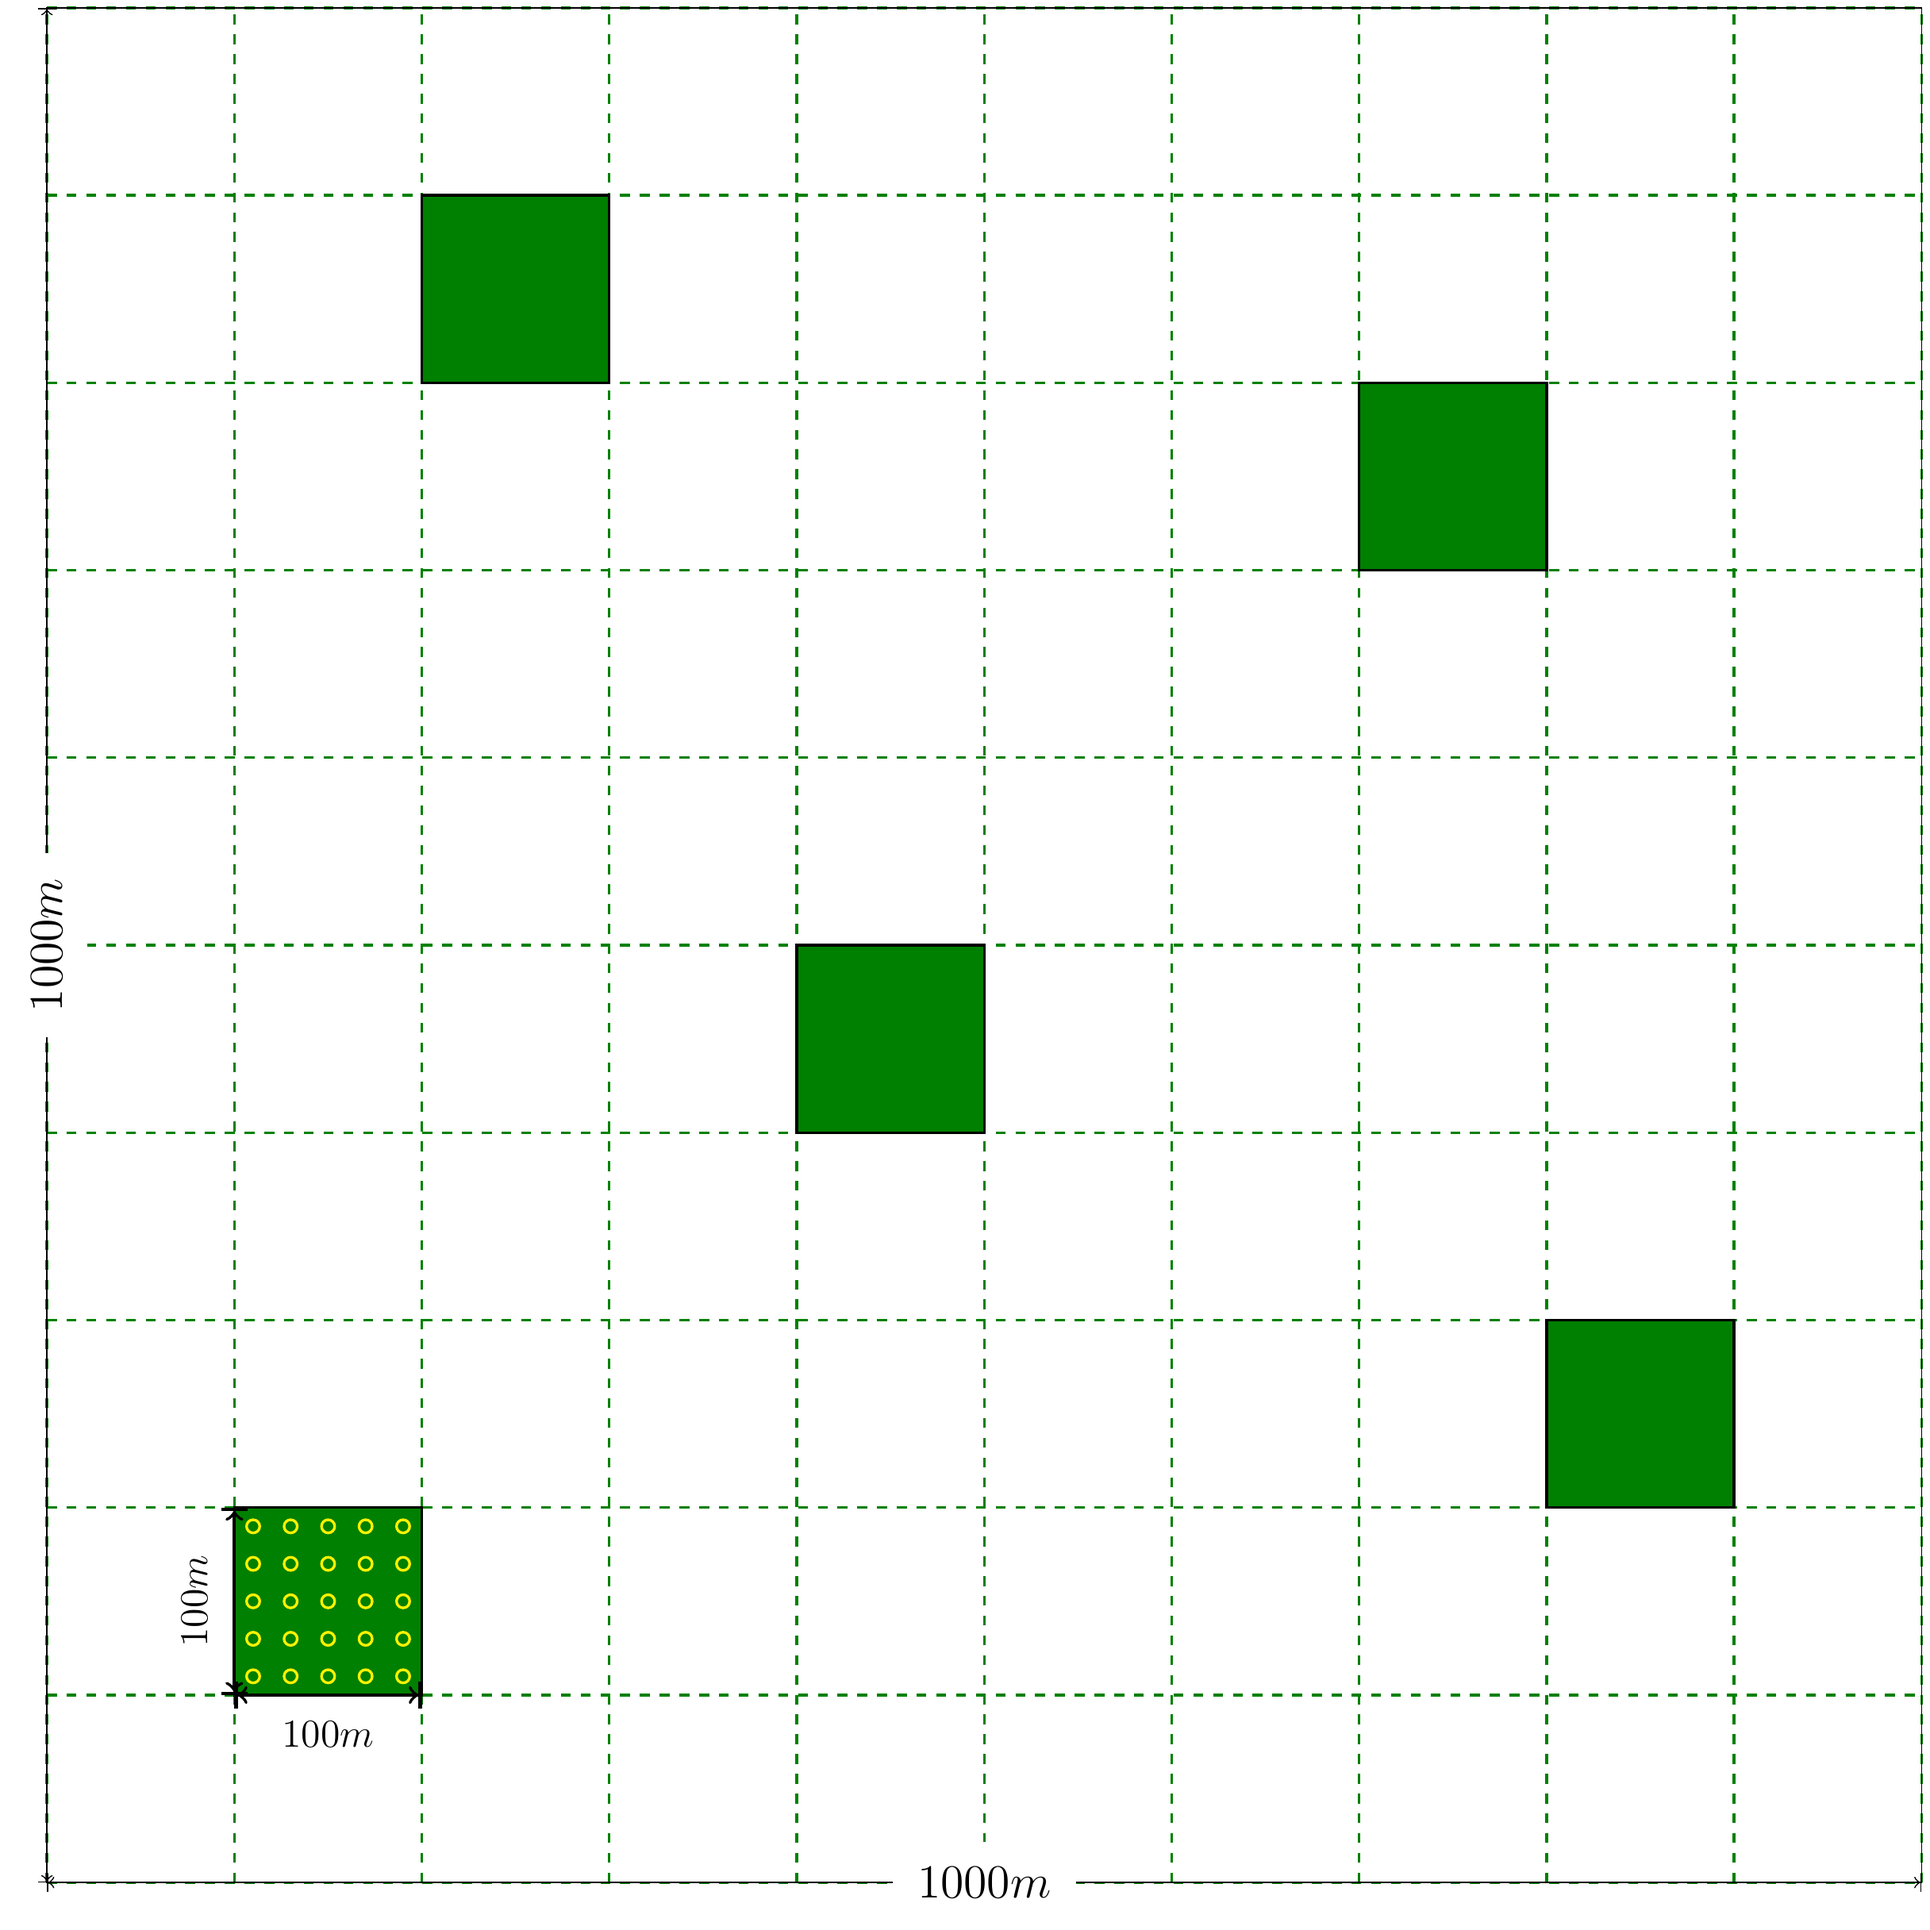
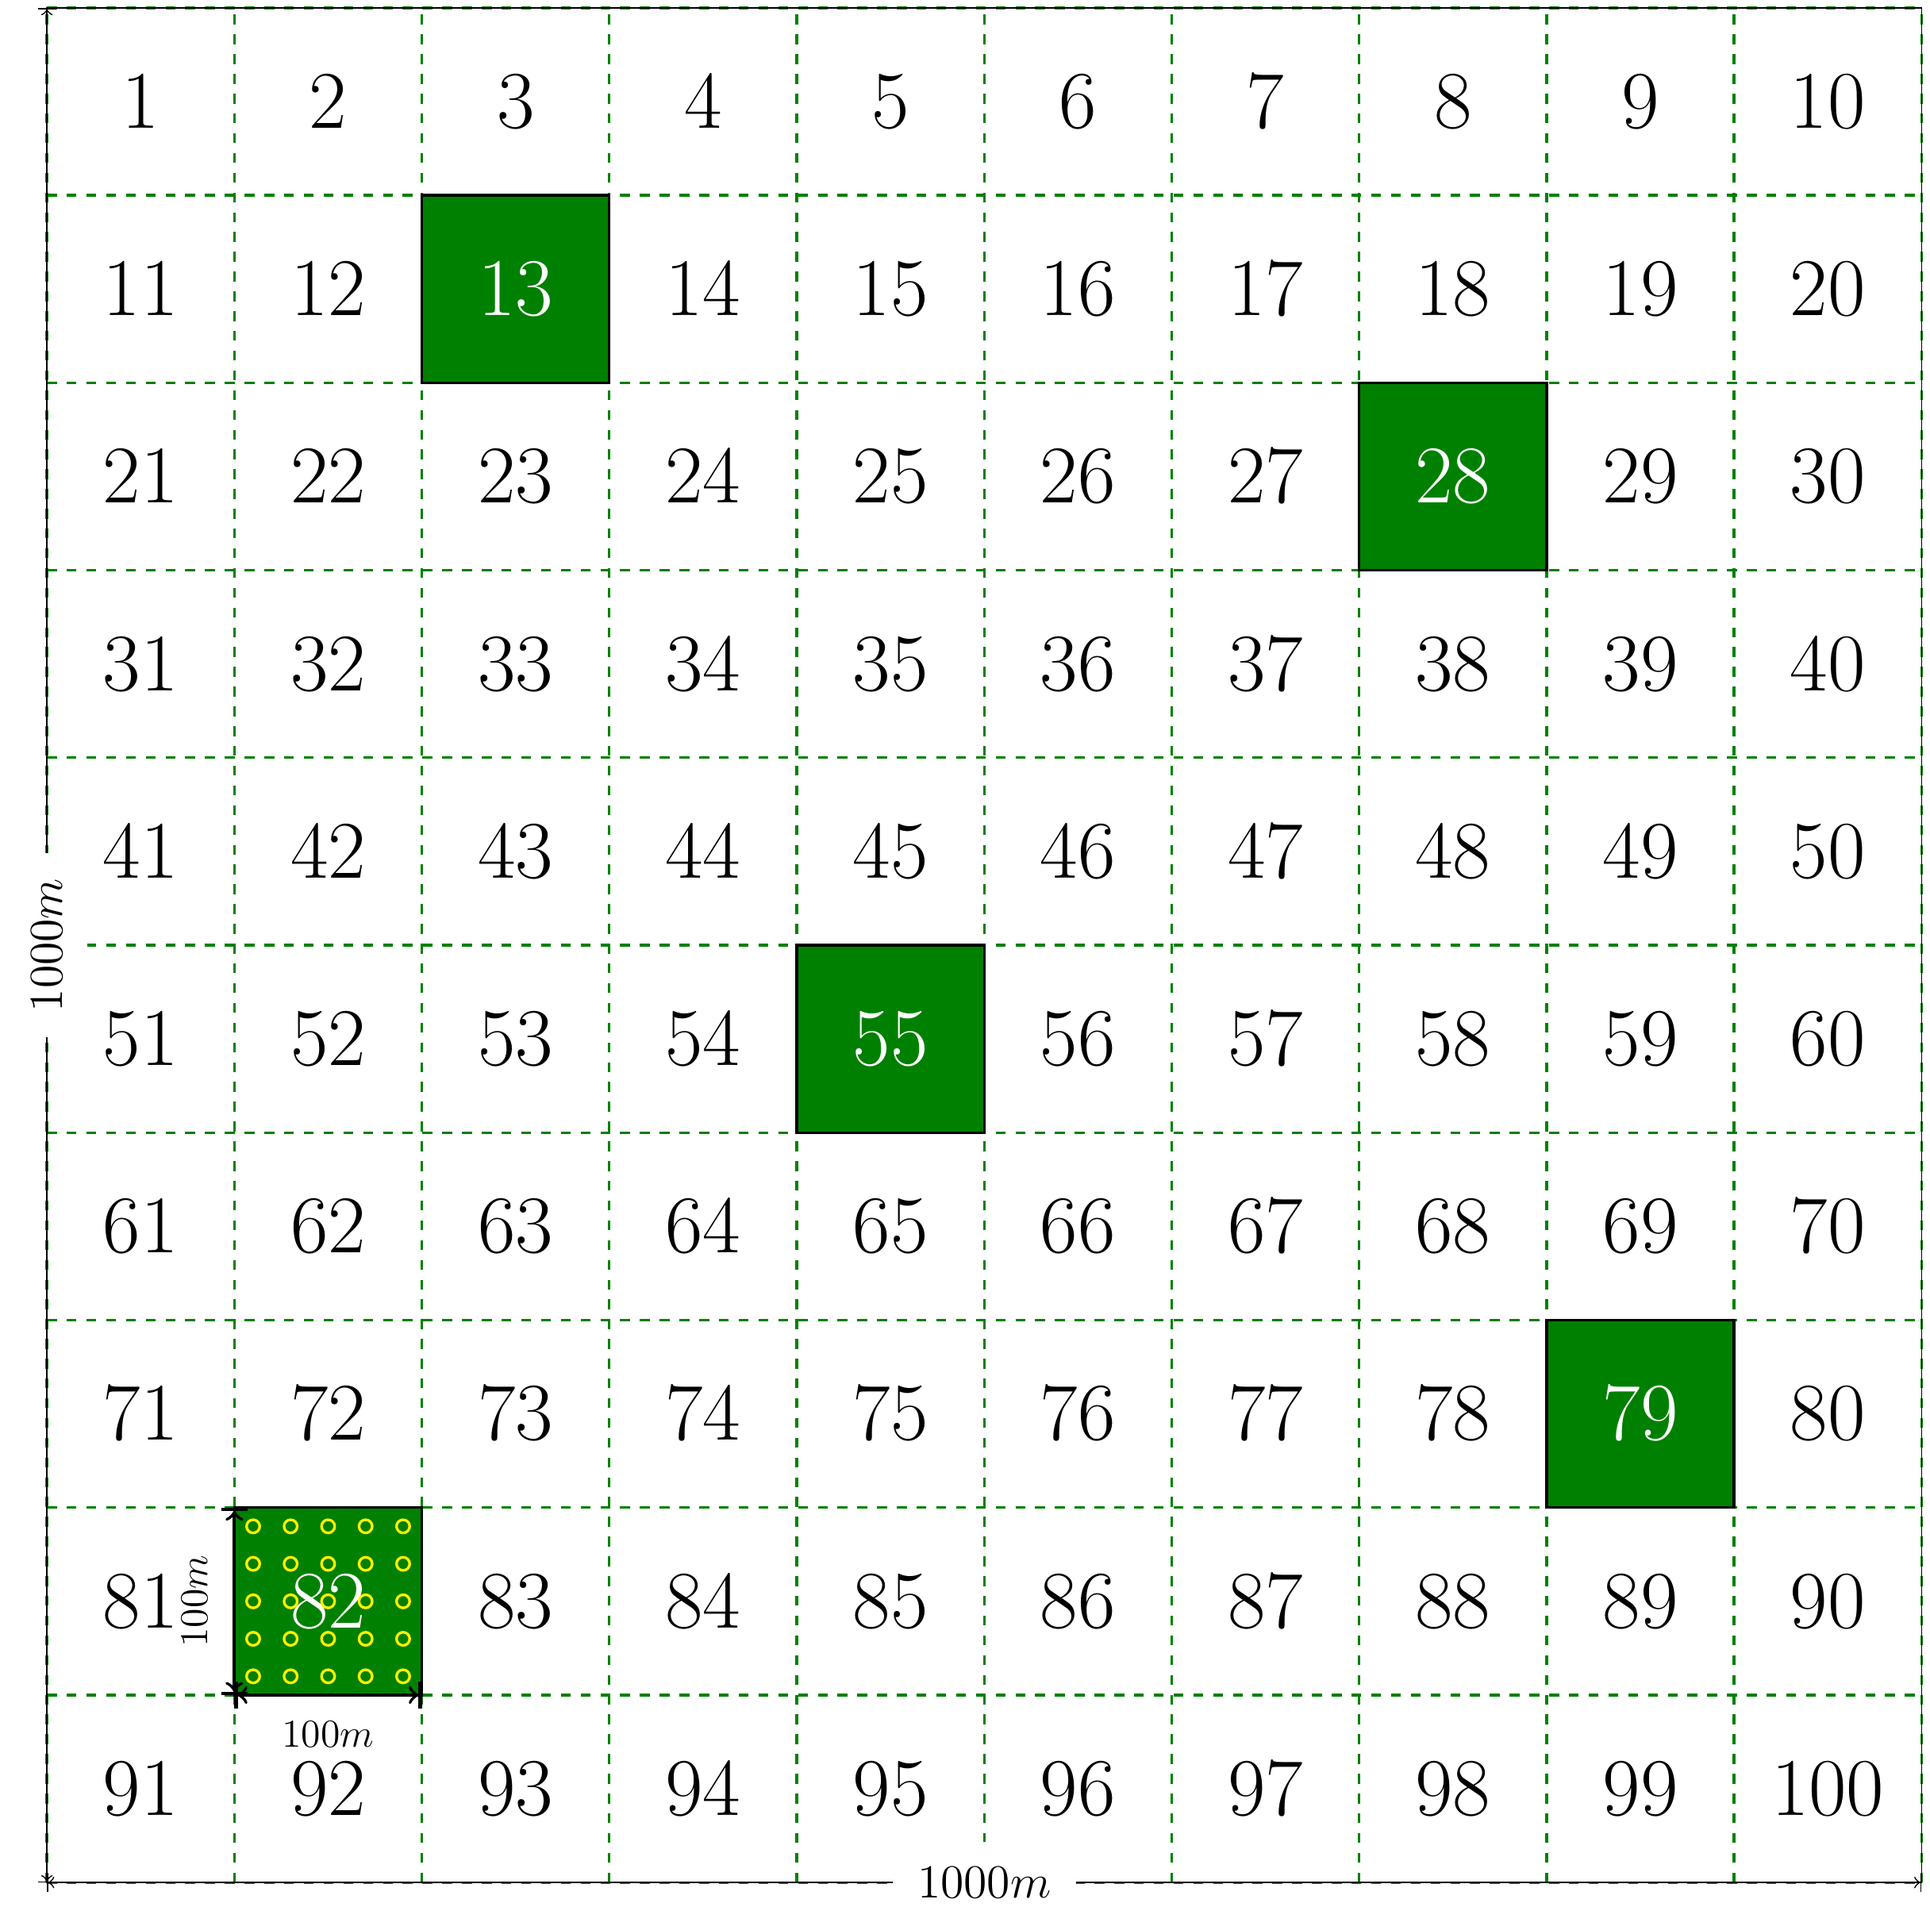
Upadte class 3

diff --git a/Slides/Aula3-AAS.html b/Slides/Aula3-AAS.html
@@ -734,24 +734,48 @@ n = \frac{t^2(CV)^2}{(LE)^2}
 
 ## Estimadores da Amostragem Aleatória Simples
 
-.pull-left-12[
+.pull-left-5[
+.font90[
 - Como determinar o número de unidades de amostras possíveis na população `\(\left(N\right)\)`?
-&lt;br&gt;
+]
+]
 
+--
+
+.pull-right-5[
+
+&lt;img src="fig/class3/output.png" width="70%" style="display: block; margin: auto;" /&gt;
+]
+
+--
+
+.pull-down[
+.pull-left-5[
+.font90[
 **Depende do tamanho da população e da parcela:**
 &lt;br&gt;
 
 `\begin{equation}
-\large
+\normalsize
 N = \frac{A}{a}
 \end{equation}`
 
+`\begin{equation*}
+\normalsize
+N = \frac{A}{a} = \frac{1.000.000\color{orange}{m²}}{10.000\color{orange}{m²}} = \frac{100\color{blue}{ha}}{1\color{blue}{ha}} = 100~UA
+\end{equation*}`
+
+- **Interpretação**: É possível estabelecer 100 unidades amostrais de 1ha em uma área de 100ha.
+
+]
+]
 ]
 
-.pull-right-12[
+---
 
-&lt;img src="fig/class3/output.png" width="60%" style="display: block; margin: auto;" /&gt;
-]
+
+
+
 
 ---
 
